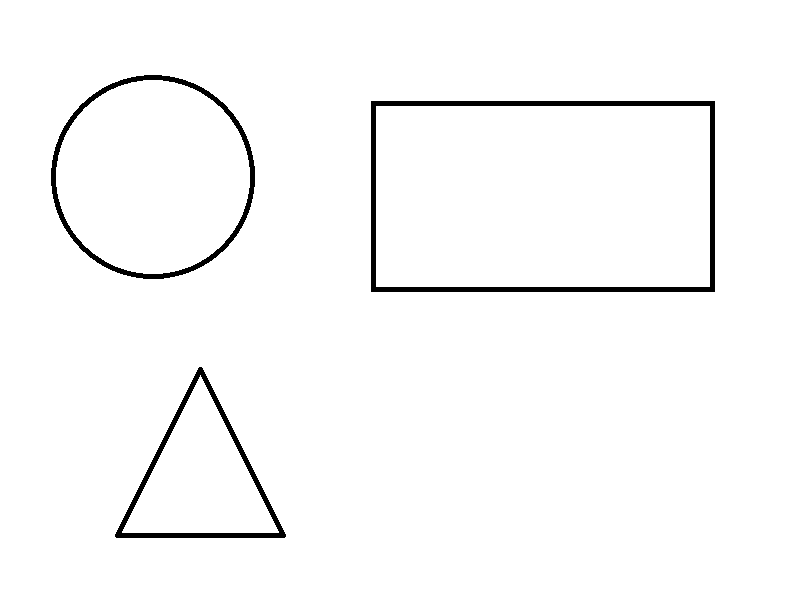
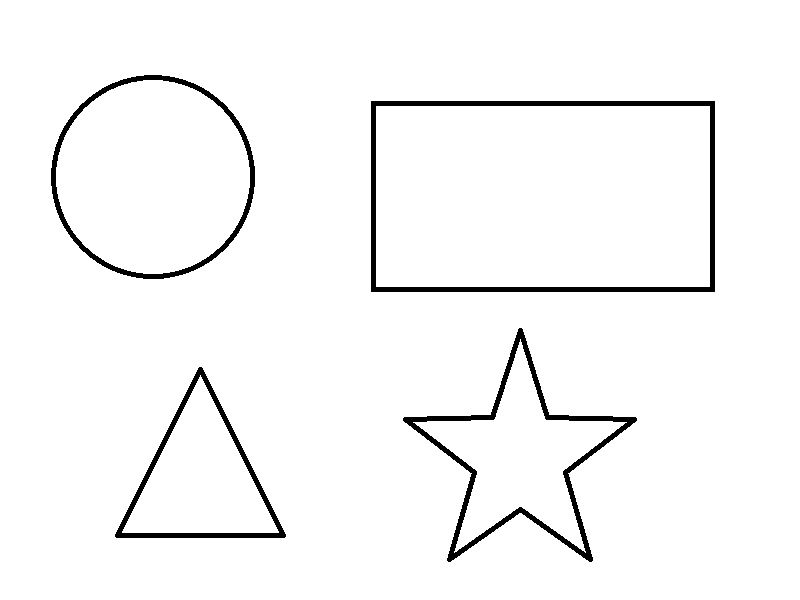
Gwiazda

diff --git a/figury.html b/figury.html
@@ -8,8 +8,23 @@
 <body>
     <img src="/img/figura.png" alt="Figury" usemap="#figury" width="800" height="600"/>
     <map name="figury">
+        <!-- x środka, y środka, promień -->
         <area shape="circle" coords="153,177,102" href="https://pl.wikipedia.org/wiki/Ko%C5%82o" alt="Koło"/>
+        <!-- x lewy górny, y lewy górny, x dolny prawy, y dolny prawy -->
         <area shape="rect" coords="371,101,714,291" href="https://pl.wikipedia.org/wiki/Prostok%C4%85t" alt="Prostokąt"/>
+        <!-- x pierwszy, y pierwszy... -->
         <area shape="poly" coords="200,367,286,537,115,537" href="https://pl.wikipedia.org/wiki/Tr%C3%B3jk%C4%85t" alt="Trójkąt"/>
+        <area shape="poly" coords="
+        520,328,
+        548,416,
+        637,418,
+        568,473,
+        592,561,
+        520,512,
+        447,561,
+        473,473,
+        403,418,
+        492,416
+        " href="https://pl.wikipedia.org/wiki/Wielok%C4%85t_gwia%C5%BAdzisty" alt="Gwiazda"/>
     </map>
 </body>
